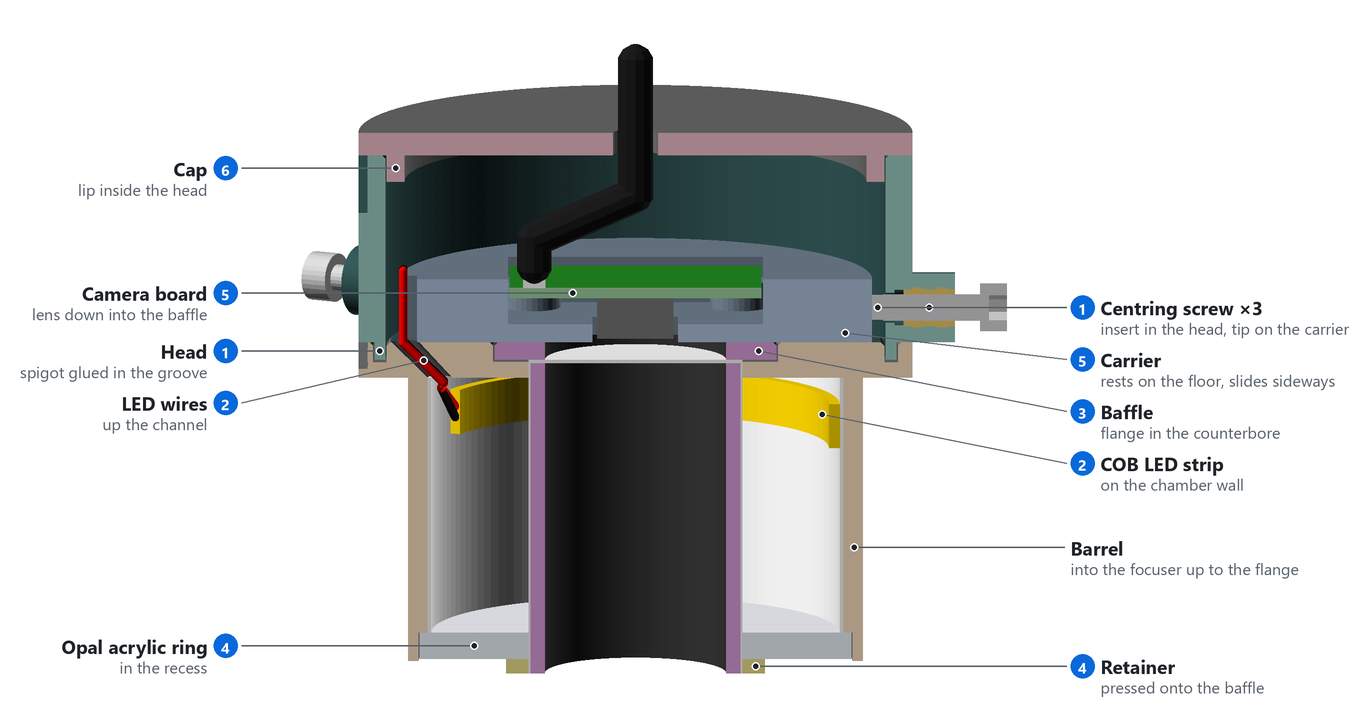
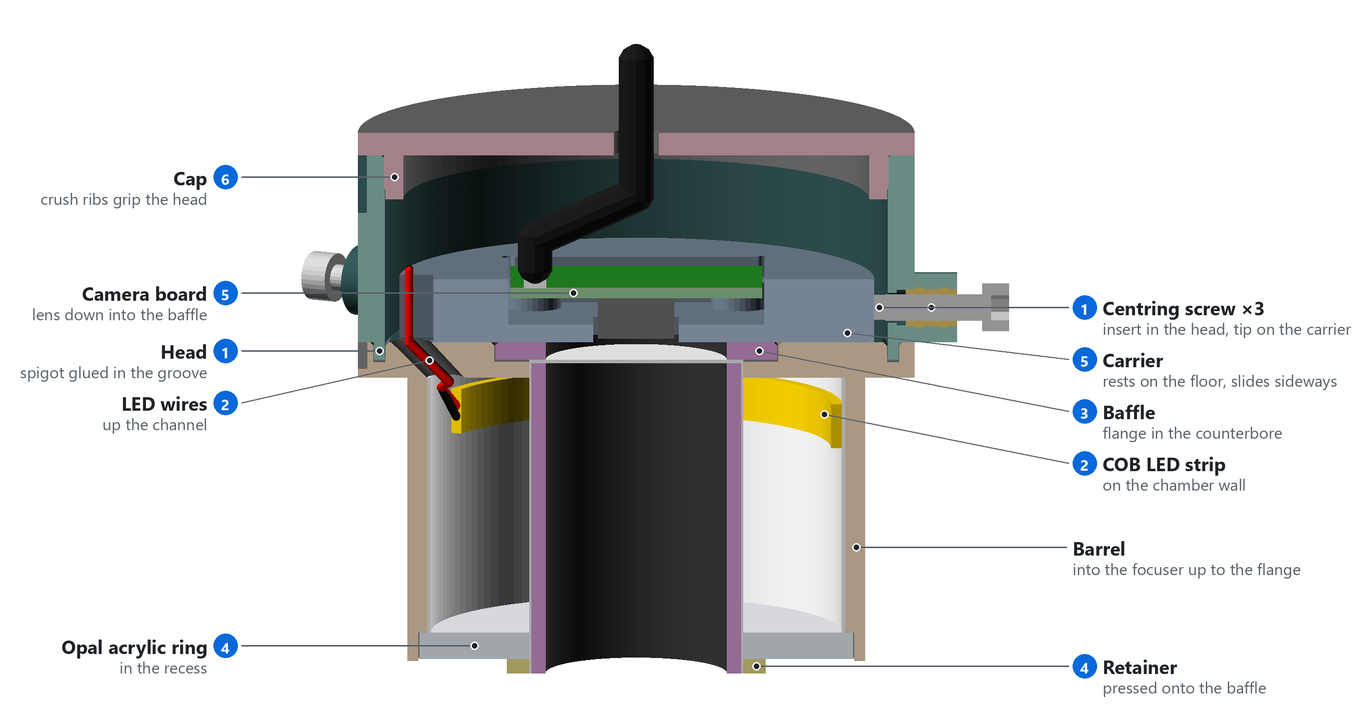
increased center square for pcb board for imx179 preset and wire passthrough hole so it fits. Also made the lid press-fit to avoid gluing it

diff --git a/hardware/make_figures.py b/hardware/make_figures.py
@@ -33,7 +33,7 @@ WHITE = (255, 255, 255)
 
 # side, step (None = no badge), title, detail, anchors
 EXPLODED_LABELS = [
-    ("left", 6, "Cap", "close it, zip-tie the cable", ["cap"]),
+    ("left", 6, "Cap", "push in, ribs hold it; zip-tie the cable", ["cap"]),
     ("left", 5, "Camera board", "lens down through the carrier", ["camera"]),
     ("left", 5, "Carrier", "notch on the wire side", ["carrier_notch"]),
     ("left", 1, "Marks", "line up head and flange", ["head_mark", "flange_mark"]),
@@ -47,7 +47,7 @@ EXPLODED_LABELS = [
     ("right", 4, "Retainer", "pressed onto the baffle", ["retainer"]),
 ]
 SECTION_LABELS = [
-    ("left", 6, "Cap", "lip inside the head", ["sv_cap"]),
+    ("left", 6, "Cap", "crush ribs grip the head", ["sv_cap"]),
     ("left", 5, "Camera board", "lens down into the baffle", ["sv_camera"]),
     ("left", 1, "Head", "spigot glued in the groove", ["sv_spigot"]),
     ("left", 2, "LED wires", "up the channel", ["sv_wires"]),

diff --git a/hardware/README.md b/hardware/README.md
@@ -106,8 +106,9 @@ This writes `out/`:
 | `barrel_2mm.stl`, `barrel_3mm.stl` | Barrel with flange and head floor. The acrylic recess depth matches the sheet thickness, so print the one for your acrylic. |
 | `head.stl` | The tube around the camera carrier, with the three centring-screw bosses. |
 | `carrier.stl`, `baffle.stl`, `retainer.stl`, `cap.stl` | The other printed parts, already in print orientation. |
+| `cap_test.stl` | Three caps with crush ribs at `cap_squeeze` ± 0.15 mm (0.25, 0.4, 0.55 by default), each engraved with its value inside. Try each in the head and keep the one that holds firmly but still comes off; set `cap_squeeze` to its value for later builds. Print it instead of `cap.stl`. |
 | `tolerance_test.stl` | Seven barrel rings from −0.3 to +0.3 mm with the diameter engraved. **Print this first.** |
-| `fit_test.stl` | A peg and five rings with total gaps of 0.1–0.5 mm engraved. **Print this first** too. |
+| `fit_test.stl` | A peg and five rings engraved with their total gaps, `fit_gap` ± 0.2 mm (0–0.35 mm by default). **Print this first** too. |
 | `diffuser_2mm.dxf/.svg`, `diffuser_3mm.dxf/.svg` | The laser-cut ring. |
 
 **Printing.** PETG or ASA, matte black. Use 4 perimeters for a round, stiff barrel.
@@ -124,13 +125,18 @@ Every STL is oriented to print without supports:
 Try the tolerance rings in your focuser and set `barrel_od` to the snug one.
 
 **Fits.** `fit_gap` is the total gap (hole Ø − part Ø) between printed parts that slide
-together. The default is 0.3 mm. It applies to the head's spigot in the flange groove,
-the baffle in the barrel floor and its counterbore, the cap lip in the head, and the
-camera PCB in the carrier pocket. Push the fit-test peg through the rings and set
-`fit_gap` to the ring it passes through without play. Most of these fits have one side
+together, so each side gets half of it. The default is 0.15 mm. It applies to the head's
+spigot in the flange groove, the baffle in the barrel floor and its counterbore, and
+the camera PCB in the carrier pocket. On a board with mounting holes
+the screws locate the PCB, so its pocket gets 3 × `fit_gap` (28.45 mm for the 28 mm
+`imx179_db05`). The pocket has round reliefs in its corners, since printed inside corners
+round off and would catch the PCB's sharp corners. Push the fit-test peg through the rings and set `fit_gap` to the ring it
+passes through without play. Most of these fits have one side
 on the first layer, so `bed_chamfer` (0.4 mm) bevels those edges against elephant's foot.
 These are not slide fits and have their own settings:
 * the retainer is a press fit (`press_fit`)
+* the cap is held by eight crush ribs on its lip (`cap_squeeze`); the lip itself has the
+  slide fit, so it centres the cap
 * the carrier floats in the head by `float`
 * the barrel is tuned to the focuser with `barrel_od`
 * the insert holes follow the insert maker's table
@@ -194,12 +200,18 @@ figures after changing the model.
    carrier's bosses, flush with their tops. Fit the PCB into the carrier with the lens
    down through the floor, and fix it with M2×5 screws (or M2×4). Put the carrier in
    the head with its notch at the marks. Solder the LED wires through the resistor and
-   trimmer to the board's 5V and GND pads.
+   trimmer to the board's 5V and GND pads. Keep the trimmer and the JST plug away from
+   the head's wall, or lay the trimmer flat: the cap's lip reaches 5 mm down inside the
+   wall.
 
    ![The head from above after step 5, with the cap off: the mark and the carrier notch
    on the wire side, and the three centring screws.](img/assembly_top.png)
-6. Plug in USB, set the trimmer to 30–50 mA (measure with a multimeter), close the cap
-   and zip-tie the cable for strain relief.
+6. Plug in USB, set the trimmer to 30–50 mA (measure with a multimeter), push the cap in
+   until it sits on the head's rim, and zip-tie the cable for strain relief. The crush
+   ribs on its lip hold it without glue. To open it, twist a small flat screwdriver in
+   one of the two notches at the rim. If it gets loose after many openings, reprint it
+   with a larger `cap_squeeze`. A hard tug on the cable pops the cap off rather than
+   pulling on the board's header.
 
 ## 5. Centre the camera with ColliView
 
